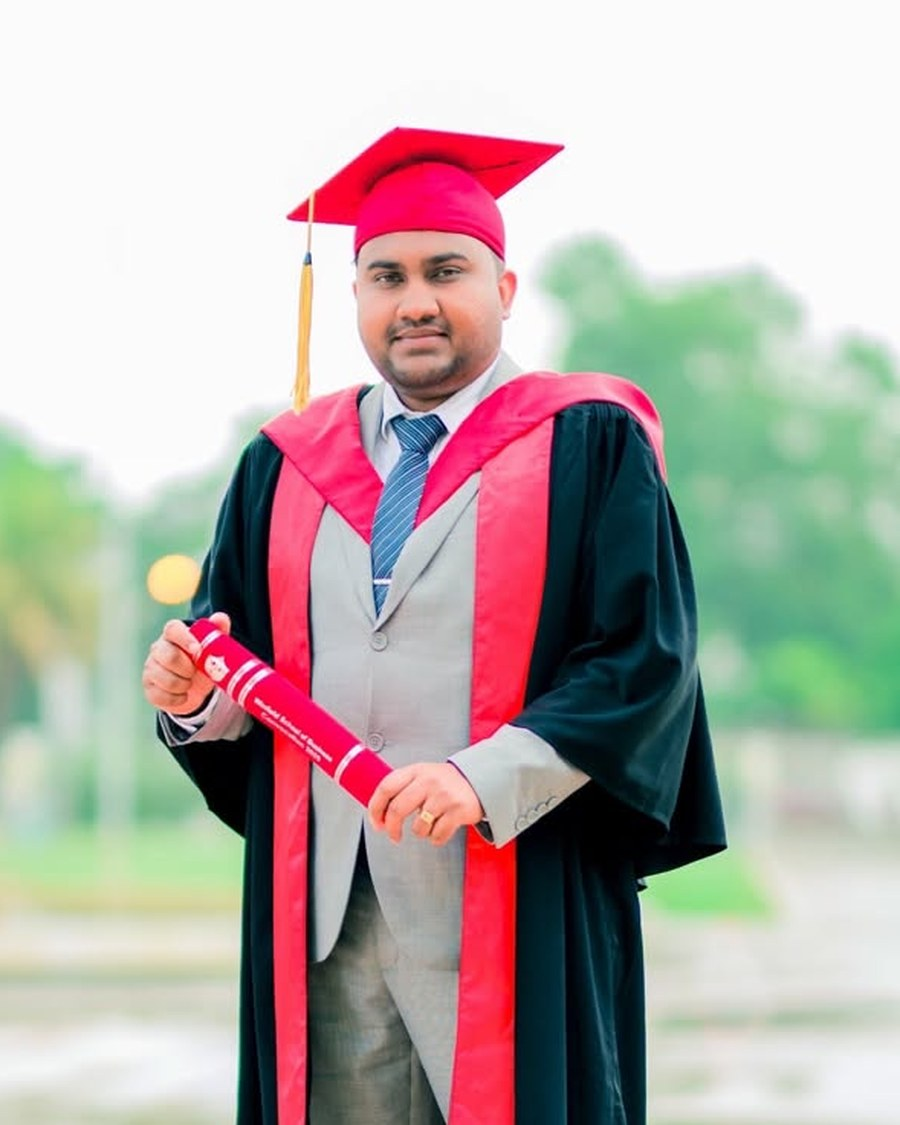
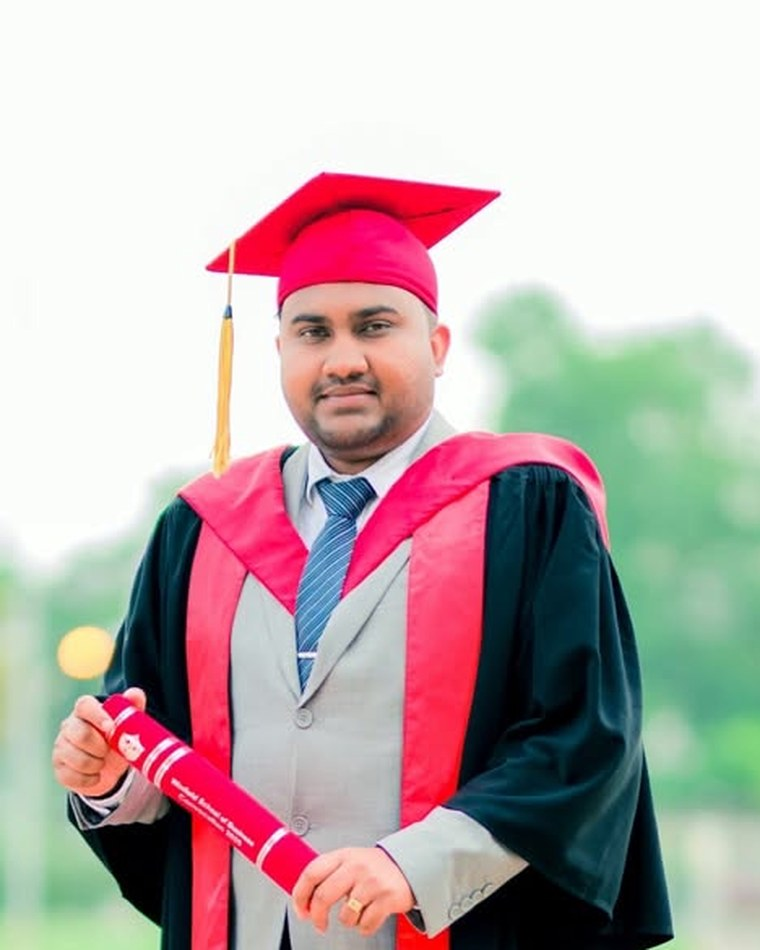
Re-crop the graduation photographs to one head scale
The strip looked wrong for a reason worth naming: the five frames had
heads at wildly different sizes, from 14% of the frame in the two-up shot
to 31% in the CIM one, and the subjects sat at different heights and
off-centre. Five portraits that should have read as a set read as five
unrelated snapshots.

Re-cropped against the actual geometry rather than by eye. For each source
the cap top, the chin and the face centre were read off a coordinate grid,
and the crop is then computed so the head is 28% of the frame with 10%
headroom above it, centred on the face. The tightest source sets that 28%,
because a crop can be tightened but not loosened. All four solo portraits
now land within three percentage points of each other. A mild, equal
autocontrast evens out five different venues.

The two-up shot is not a portrait and was being forced into a 4:5 slot
that cut both people at the edges. It now has a row of its own at 4:3 with
both of them and both mementos in frame, and its caption beside it rather
than underneath.

Captions split into institution and award, so four of them stop running to
three ragged lines of uppercase mono.

Claude-Session: https://claude.ai/code/session_01WvhRDge3ToZ8jrBB9JQYnv

diff --git a/about.html b/about.html
@@ -208,11 +208,11 @@
       <div class="h"><h2 id="ab-photos">Where they came from</h2></div>
       <div class="c">
         <div class="photo-strip">
-          <figure class="shot-p"><picture><source srcset="assets/img/about/graduation-mba.webp" type="image/webp"><img src="assets/img/about/graduation-mba.jpg" alt="Isuru Marasinghe graduating with an MBA from the University of Gloucestershire" width="900" height="1125" loading="lazy" decoding="async"></picture><figcaption>University of Gloucestershire &middot; MBA</figcaption></figure>
-          <figure class="shot-p"><picture><source srcset="assets/img/about/graduation-horizon.webp" type="image/webp"><img src="assets/img/about/graduation-horizon.jpg" alt="Isuru Marasinghe graduating from Horizon Campus, Sri Lanka" width="900" height="1125" loading="lazy" decoding="async"></picture><figcaption>Horizon Campus &middot; BM (Hons) in Marketing, First Class</figcaption></figure>
-          <figure class="shot-p"><picture><source srcset="assets/img/about/graduation-cim.webp" type="image/webp"><img src="assets/img/about/graduation-cim.jpg" alt="Isuru Marasinghe graduating from the Chartered Institute of Marketing" width="900" height="1125" loading="lazy" decoding="async"></picture><figcaption>Chartered Institute of Marketing &middot; PgDip.M, Level 7</figcaption></figure>
-          <figure class="shot-p"><picture><source srcset="assets/img/about/graduation-esm.webp" type="image/webp"><img src="assets/img/about/graduation-esm.jpg" alt="Isuru Marasinghe at the ESM Business School and AIPQ graduation ceremony" width="900" height="1125" loading="lazy" decoding="async"></picture><figcaption>ESM Business School &middot; AIPQ, Certified Digital Marketing Practitioner</figcaption></figure>
-          <figure class="shot-p"><picture><source srcset="assets/img/about/graduation-esm-pair.webp" type="image/webp"><img src="assets/img/about/graduation-esm-pair.jpg" alt="Isuru Marasinghe and his wife at the ESM Business School and AIPQ graduation ceremony" width="900" height="1125" loading="lazy" decoding="async"></picture><figcaption>Alongside my wife, an MBA Graduate of the University of Sunderland, UK and a fellow Certified Digital Marketing Practitioner</figcaption></figure>
+          <figure class="shot-p"><picture><source srcset="assets/img/about/graduation-mba.webp" type="image/webp"><img src="assets/img/about/graduation-mba.jpg" alt="Isuru Marasinghe graduating with an MBA from the University of Gloucestershire" width="760" height="950" loading="lazy" decoding="async"></picture><figcaption><b>University of Gloucestershire</b><span>MBA</span></figcaption></figure>
+          <figure class="shot-p"><picture><source srcset="assets/img/about/graduation-horizon.webp" type="image/webp"><img src="assets/img/about/graduation-horizon.jpg" alt="Isuru Marasinghe graduating from Horizon Campus, Sri Lanka" width="760" height="950" loading="lazy" decoding="async"></picture><figcaption><b>Horizon Campus</b><span>BM (Hons) Marketing, First Class</span></figcaption></figure>
+          <figure class="shot-p"><picture><source srcset="assets/img/about/graduation-cim.webp" type="image/webp"><img src="assets/img/about/graduation-cim.jpg" alt="Isuru Marasinghe graduating from the Chartered Institute of Marketing" width="760" height="950" loading="lazy" decoding="async"></picture><figcaption><b>Chartered Institute of Marketing</b><span>PgDip.M, Level 7</span></figcaption></figure>
+          <figure class="shot-p"><picture><source srcset="assets/img/about/graduation-esm.webp" type="image/webp"><img src="assets/img/about/graduation-esm.jpg" alt="Isuru Marasinghe at the ESM Business School and AIPQ graduation ceremony" width="760" height="950" loading="lazy" decoding="async"></picture><figcaption><b>ESM Business School</b><span>AIPQ &middot; Certified Digital Marketing Practitioner</span></figcaption></figure>
+          <figure class="shot-p wide"><picture><source srcset="assets/img/about/graduation-esm-pair.webp" type="image/webp"><img src="assets/img/about/graduation-esm-pair.jpg" alt="Isuru Marasinghe and his wife at the ESM Business School and AIPQ graduation ceremony" width="1200" height="900" loading="lazy" decoding="async"></picture><figcaption><b>ESM Business School &middot; graduation 2026</b><span>Alongside my wife, an MBA Graduate of the University of Sunderland, UK and a fellow Certified Digital Marketing Practitioner</span></figcaption></figure>
         </div>
       </div>
     </section>

diff --git a/assets/css/site.css b/assets/css/site.css
@@ -687,17 +687,29 @@ footer .foot{padding-top:26px;}
 .service .svc-sec.full{grid-template-columns:1fr;gap:20px;}
 .service .svc-sec.full > .h h2{position:static;}
 
-.photo-strip{display:grid;grid-template-columns:repeat(5,minmax(0,1fr));gap:12px;}
-.shot-p{margin:0;min-width:0;}
+/* Four portraits on a shared head scale, then the two-up shot on a row of its own,
+   because squeezing two people into a 4:5 slot cut both of them at the edges. */
+.photo-strip{display:grid;grid-template-columns:repeat(4,minmax(0,1fr));gap:14px;}
+.shot-p{margin:0;min-width:0;display:flex;flex-direction:column;}
 .shot-p picture{display:block;border:1px solid var(--hairline);border-radius:var(--r-md);overflow:hidden;background:var(--sunk);}
 .shot-p img{width:100%;aspect-ratio:4/5;object-fit:cover;display:block;
   transition:transform var(--dur-hover) var(--ease);}
-.shot-p:hover img{transform:scale(1.02);}
-.shot-p figcaption{margin-top:9px;font-family:var(--font-mono);font-size:10px;letter-spacing:.08em;
-  text-transform:uppercase;color:var(--ink-3);}
-@media (max-width:1100px){.photo-strip{grid-template-columns:repeat(3,minmax(0,1fr));gap:14px;}}
-@media (max-width:760px){.photo-strip{grid-template-columns:repeat(2,minmax(0,1fr));}}
-@media (max-width:460px){.photo-strip{grid-template-columns:1fr;}}
+.shot-p:hover img{transform:scale(1.015);}
+.shot-p figcaption{margin-top:11px;display:flex;flex-direction:column;gap:3px;}
+.shot-p figcaption b{font-size:13px;font-weight:500;color:var(--ink);line-height:1.3;}
+.shot-p figcaption span{font-family:var(--font-mono);font-size:10px;letter-spacing:.07em;
+  text-transform:uppercase;color:var(--ink-3);line-height:1.5;}
+.shot-p.wide{grid-column:1 / -1;display:grid;grid-template-columns:minmax(0,1.12fr) minmax(0,1fr);
+  gap:clamp(18px,2.6vw,36px);align-items:center;margin-top:4px;}
+.shot-p.wide img{aspect-ratio:4/3;}
+.shot-p.wide figcaption{margin-top:0;gap:10px;}
+.shot-p.wide figcaption b{font-family:var(--font-display);font-weight:300;font-size:clamp(19px,2vw,24px);
+  letter-spacing:-.015em;line-height:1.15;}
+.shot-p.wide figcaption span{font-family:var(--font-body);font-size:14.5px;letter-spacing:0;
+  text-transform:none;color:var(--ink-2);line-height:1.5;max-width:46ch;}
+@media (max-width:860px){.photo-strip{grid-template-columns:repeat(2,minmax(0,1fr));}
+  .shot-p.wide{grid-template-columns:1fr;align-items:start;}}
+@media (max-width:420px){.photo-strip{grid-template-columns:1fr;}}
 
 /* ---------- phone field with a dialling code ---------- */
 .tel-combo{display:grid;grid-template-columns:minmax(0,168px) minmax(0,1fr);gap:8px;}

diff --git a/scripts/build-services.py b/scripts/build-services.py
@@ -974,22 +974,24 @@ def hub_page():
 # Portraits for the about page. Each entry renders only if the file is on disk, so
 # dropping a new photograph at one of these paths is all it takes to add it.
 ABOUT_PHOTOS = [
+    # (file, alt, institution, award, wide)
     ("assets/img/about/graduation-mba.jpg",
      "Isuru Marasinghe graduating with an MBA from the University of Gloucestershire",
-     "University of Gloucestershire &middot; MBA"),
+     "University of Gloucestershire", "MBA", False),
     ("assets/img/about/graduation-horizon.jpg",
      "Isuru Marasinghe graduating from Horizon Campus, Sri Lanka",
-     "Horizon Campus &middot; BM (Hons) in Marketing, First Class"),
+     "Horizon Campus", "BM (Hons) Marketing, First Class", False),
     ("assets/img/about/graduation-cim.jpg",
      "Isuru Marasinghe graduating from the Chartered Institute of Marketing",
-     "Chartered Institute of Marketing &middot; PgDip.M, Level 7"),
+     "Chartered Institute of Marketing", "PgDip.M, Level 7", False),
     ("assets/img/about/graduation-esm.jpg",
      "Isuru Marasinghe at the ESM Business School and AIPQ graduation ceremony",
-     "ESM Business School &middot; AIPQ, Certified Digital Marketing Practitioner"),
+     "ESM Business School", "AIPQ &middot; Certified Digital Marketing Practitioner", False),
     ("assets/img/about/graduation-esm-pair.jpg",
      "Isuru Marasinghe and his wife at the ESM Business School and AIPQ graduation ceremony",
+     "ESM Business School &middot; graduation 2026",
      "Alongside my wife, an MBA Graduate of the University of Sunderland, UK and a fellow "
-     "Certified Digital Marketing Practitioner"),
+     "Certified Digital Marketing Practitioner", True),
 ]
 
 
@@ -1005,17 +1007,18 @@ def dims(src):
 
 def photo_strip(prefix=""):
     out = []
-    for src, alt, cap in ABOUT_PHOTOS:
+    for src, alt, where, award, wide in ABOUT_PHOTOS:
         if not os.path.exists(os.path.join(ROOT, src)):
             continue
         webp = os.path.splitext(src)[0] + ".webp"
         source = ('<source srcset="%s%s" type="image/webp">' % (prefix, webp)
                   if os.path.exists(os.path.join(ROOT, webp)) else "")
         out.append(
-            '          <figure class="shot-p">'
+            '          <figure class="shot-p%s">'
             '<picture>%s<img src="%s%s" alt="%s"%s loading="lazy" decoding="async"></picture>'
-            '<figcaption>%s</figcaption></figure>'
-            % (source, prefix, src, html.escape(alt), dims(src), cap))
+            '<figcaption><b>%s</b><span>%s</span></figcaption></figure>'
+            % (' wide' if wide else '', source, prefix, src, html.escape(alt),
+               dims(src), where, award))
     if not out:
         return ""
     return ('    <section class="svc-sec full reveal" aria-labelledby="ab-photos">\n'
